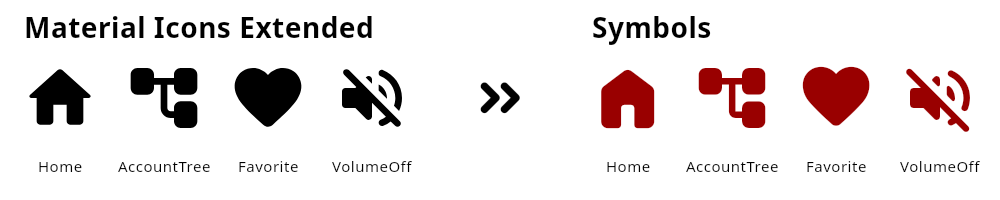
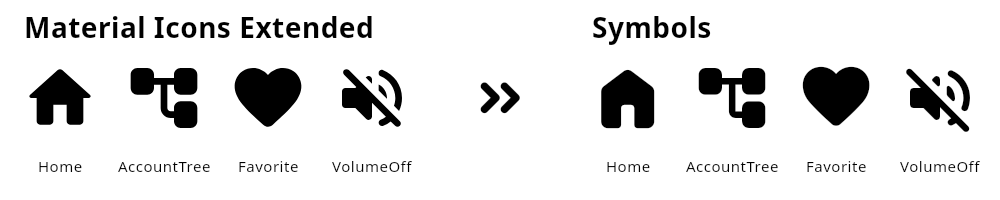
Cycle README Symbols through seeded Material primaries from black

Changed region(s): [[0.589, 0.33, 0.775, 0.66], [0.899, 0.33, 0.992, 0.66], [0.806, 0.33, 0.868, 0.63]]

diff --git a/tools/readme-media/src/main/kotlin/ReadmeMedia.kt b/tools/readme-media/src/main/kotlin/ReadmeMedia.kt
@@ -1,6 +1,7 @@
 @file:OptIn(androidx.compose.ui.ExperimentalComposeUiApi::class)
 
 import androidx.compose.animation.core.animateFloatAsState
+import androidx.compose.animation.animateColorAsState
 import androidx.compose.animation.core.Animatable
 import androidx.compose.animation.core.EaseInOutQuart
 import androidx.compose.animation.core.EaseOutQuart
@@ -18,6 +19,7 @@ import androidx.compose.material3.Icon
 import androidx.compose.material3.MaterialExpressiveTheme
 import androidx.compose.material3.MaterialTheme
 import androidx.compose.material3.Text
+import androidx.compose.material3.lightColorScheme
 import androidx.compose.runtime.Composable
 import androidx.compose.runtime.LaunchedEffect
 import androidx.compose.runtime.State
@@ -28,6 +30,7 @@ import androidx.compose.ui.Alignment
 import androidx.compose.ui.ImageComposeScene
 import androidx.compose.ui.Modifier
 import androidx.compose.ui.graphics.Color
+import androidx.compose.ui.graphics.toArgb
 import androidx.compose.ui.graphics.vector.ImageVector
 import androidx.compose.ui.text.font.FontWeight
 import androidx.compose.ui.unit.dp
@@ -37,6 +40,8 @@ import io.github.hlcaptain.symbols.font.SymbolFontIcon
 import io.github.hlcaptain.symbols.font.fontSettings
 import io.github.hlcaptain.symbols.material.*
 import io.github.hlcaptain.symbols.material.rounded.vectors.Home
+import com.materialkolor.hct.Hct
+import com.materialkolor.scheme.SchemeTonalSpot
 import java.io.File
 import javax.imageio.ImageIO
 import kotlinx.coroutines.Dispatchers
@@ -92,6 +97,21 @@ private val ComparisonStates = buildList {
         add(axes.copy(fill = fill))
     }
 }
+
+private fun primaryFromSeed(seed: Color): Color =
+    Color(SchemeTonalSpot(Hct.fromInt(seed.toArgb()), false, 0.0).primary)
+
+private val ComparisonTints = buildList {
+    val purple = lightColorScheme().primary
+    val purpleHue = Hct.fromInt(purple.toArgb()).hue
+    add(Color.Black)
+    add(purple)
+    for (index in 2 until ComparisonStates.lastIndex) {
+        val hue = (purpleHue + (index - 1) * 360.0 / (ComparisonStates.lastIndex - 1)) % 360.0
+        add(primaryFromSeed(Color(Hct.from(hue, 48.0, 50.0).toInt())))
+    }
+    add(Color.Black)
+}
 private val VariableStates = listOf(
     Axes(),
     Axes(fill = 1f, weight = 100f, grade = -50f, opticalSize = 20f),
@@ -113,14 +133,11 @@ private fun animatedAxes(target: Axes, finishedListener: ((Float) -> Unit)? = nu
 }
 
 @Composable
-private fun animatedTint(step: Float, finishedListener: ((Float) -> Unit)? = null): Color {
-    val animatedStep = animateFloatAsState(
-        step, MaterialTheme.motionScheme.defaultSpatialSpec<Float>(),
-        label = "Hue", finishedListener = finishedListener,
+private fun animatedTint(step: Float, finishedListener: ((Color) -> Unit)? = null): Color =
+    animateColorAsState(
+        ComparisonTints[step.toInt()], MaterialTheme.motionScheme.defaultEffectsSpec<Color>(),
+        label = "Tint", finishedListener = finishedListener,
     ).value
-    val hue = (animatedStep * 360f / ComparisonStates.lastIndex % 360f + 360f) % 360f
-    return Color.hsv(hue, 1f, 0.6f)
-}
 
 @Composable
 private fun animatedArrow(step: Float, finishedListener: (() -> Unit)? = null): Float {
@@ -252,9 +269,9 @@ private suspend fun capture(name: String, comparison: Boolean) {
     val states = if (comparison) ComparisonStates else VariableStates
     val initial = states.first()
     val target = mutableStateOf(initial)
-    val hueStep = mutableStateOf(0f)
+    val colorStep = mutableStateOf(0f)
     var animationFinished = true
-    var hueFinished = true
+    var tintFinished = true
     var arrowFinished = true
     if (comparison) {
         // One completion callback is sufficient only when exactly one axis changes.
@@ -268,8 +285,8 @@ private suspend fun capture(name: String, comparison: Boolean) {
             if (comparison) {
                 Comparison(
                     target.value,
-                    animatedTint(hueStep.value) { hueFinished = true },
-                    animatedArrow(hueStep.value) { arrowFinished = true },
+                    animatedTint(colorStep.value) { tintFinished = true },
+                    animatedArrow(colorStep.value) { arrowFinished = true },
                 ) {
                     animationFinished = true
                 }
@@ -279,13 +296,13 @@ private suspend fun capture(name: String, comparison: Boolean) {
     // Same released renderer and font size, with a roomier layout to reveal internal clipping.
     val reference = ImageComposeScene(Width, Height, coroutineContext = Dispatchers.Unconfined) {
         MaterialExpressiveTheme {
-            if (comparison) Comparison(target.value, animatedTint(hueStep.value), animatedArrow(hueStep.value), extraDrawingSpace = 20) {}
+            if (comparison) Comparison(target.value, animatedTint(colorStep.value), animatedArrow(colorStep.value), extraDrawingSpace = 20) {}
             else VariableFonts(target.value, extraDrawingSpace = 20)
         }
     }
     // Skia's font antialiasing depends on tint; verify settled geometry in its original black.
     val shapes = if (comparison) ImageComposeScene(Width, Height, coroutineContext = Dispatchers.Unconfined) {
-        MaterialExpressiveTheme { Comparison(target.value, Color.Black, animatedArrow(hueStep.value)) {} }
+        MaterialExpressiveTheme { Comparison(target.value, Color.Black, animatedArrow(colorStep.value)) {} }
     } else null
     var time = 0L
     var referencePng = byteArrayOf()
@@ -328,19 +345,19 @@ private suspend fun capture(name: String, comparison: Boolean) {
             }
             frameCount++
         }
-        val timeline = mutableListOf("frame,settledFrame,endFrame,fill,weight,grade,opticalSize")
+        val timeline = mutableListOf("frame,settledFrame,endFrame,fill,weight,grade,opticalSize,tintArgb")
         for ((index, axes) in states.withIndex()) {
             val startFrame = frameCount
             var settledFrame: Int? = null
             animationFinished = index == 0
-            hueFinished = index == 0
+            tintFinished = index == 0
             arrowFinished = index == 0
             Snapshot.withMutableSnapshot {
                 target.value = axes
-                hueStep.value = index.toFloat()
+                colorStep.value = index.toFloat()
             }
             if (comparison) {
-                while (!animationFinished || !hueFinished || !arrowFinished) {
+                while (!animationFinished || !tintFinished || !arrowFinished) {
                     check(frameCount - startFrame < 600) { "Animation did not finish: $axes" }
                     recordFrame()
                 }
@@ -351,7 +368,8 @@ private suspend fun capture(name: String, comparison: Boolean) {
             } else {
                 repeat(96) { recordFrame() }
             }
-            timeline += "$startFrame,${settledFrame ?: ""},$frameCount,${axes.fill},${axes.weight},${axes.grade},${axes.opticalSize}"
+            val targetTint = if (comparison) ComparisonTints[index] else Color.Black
+            timeline += "$startFrame,${settledFrame ?: ""},$frameCount,${axes.fill},${axes.weight},${axes.grade},${axes.opticalSize},${targetTint.toArgb().toUInt().toString(16)}"
         }
         File(output, "states.csv").writeText(timeline.joinToString("\n"))
         println("Captured $name: ${frameCount / 2} frames, ${frameCount / 60.0} seconds, 30 fps")
@@ -367,6 +385,9 @@ fun main() = runBlocking {
     // Compile-check the migration-first README call against the released vector artifact too.
     check(Icons.Rounded.Home.viewportWidth > 0)
     check(Examples.map { it.name } == listOf("Home", "AccountTree", "Favorite", "VolumeOff"))
+    check(ComparisonTints.size == ComparisonStates.size)
+    check(ComparisonTints.first() == Color.Black && ComparisonTints.last() == Color.Black)
+    check(ComparisonTints[1] == lightColorScheme().primary)
     capture("icons-comparison", comparison = true)
     capture("variable-fonts", comparison = false)
 }

diff --git a/tools/readme-media/encode.py b/tools/readme-media/encode.py
@@ -1,7 +1,6 @@
 #!/usr/bin/env python3
 """Verify Compose captures with Pillow and encode their unchanged frames with FFmpeg."""
 
-import colorsys
 import csv
 from pathlib import Path
 import shutil
@@ -95,6 +94,10 @@ def encode(name: str) -> None:
             (1, 400, 0, 24),
         ]
         assert len(states) == len(expected)
+        palette = [int(state["tintArgb"], 16) for state in states]
+        assert palette[0] == palette[-1] == 0xFF000000, "Color loop must begin and end at black"
+        assert palette[1] == 0xFF6750A4, "First transition must reach Material's default purple"
+        assert len(set(palette[2:-1])) == len(palette[2:-1]), "Seed-derived primaries must vary"
         previous_end = 0
         settled = []
         for index, (state, axes) in enumerate(zip(states, expected)):
@@ -108,7 +111,11 @@ def encode(name: str) -> None:
             assert all(ImageChops.difference(hold[0], frame).getbbox() is None for frame in hold), "Settled hold must keep its shape"
             colored_hold = frames[finish // 2:end // 2]
             assert all(ImageChops.difference(colored_hold[0], frame).getbbox() is None for frame in colored_hold), "Tint must stay fixed throughout the hold"
-            expected_color = tuple(round(channel * 255) for channel in colorsys.hsv_to_rgb(index / (len(expected) - 1), 1, 0.6))
+            expected_color = tuple((palette[index] >> shift) & 255 for shift in (16, 8, 0))
+            channels = [value / 255 for value in expected_color]
+            linear = [value / 12.92 if value <= 0.04045 else ((value + 0.055) / 1.055) ** 2.4 for value in channels]
+            luminance = sum(value * weight for value, weight in zip(linear, (0.2126, 0.7152, 0.0722)))
+            assert 1.05 / (luminance + 0.05) >= 3, "Material primary must remain legible on white"
             for crop in crops:
                 ink = min(colored_hold[0].crop(crop).get_flattened_data(), key=sum)
                 assert all(abs(actual - color) <= 1 for actual, color in zip(ink, expected_color)), f"Unexpected settled Symbols tint in state {index}: {ink} != {expected_color}"

diff --git a/tools/readme-media/README.md b/tools/readme-media/README.md
@@ -1,7 +1,7 @@
 # README media
 
 The README APNGs are real headless Compose renders, using the published Symbols
-2.1.0 artifacts. No icon outlines or spring curves are approximated. The capture
+2.1.0 artifacts and MaterialKolor color utilities 5.0.1. No icon outlines or spring curves are approximated. The capture
 uses the repository's Kotlin, Compose and Material3 versions from the catalog;
 it does not build the library's full generated vector packs or sample apps.
 
@@ -39,12 +39,17 @@ Labels use the legacy vector's `name.substringAfterLast('.')`, matching the
 rendered reference names.
 On the right, Symbols' live Rounded font animates fill, weight, optical size,
 and grade at the same requested icon size and tint. Only Symbols changes tint.
-Each axis transition advances the unwrapped hue
-by 15 degrees through the same expressive spatial motion scheme, using HSV
-saturation `1` and value `0.6`. Color and shape stop changing during the settled
-holds; text and the arrow stay black. This tint keeps every hue at least 3:1
-against white. The variable-font demo keeps its black glyphs. The comparison begins and ends at
-`FILL=1, wght=400, GRAD=0, opsz=24` and its initial red tint.
+The initial and final tint is black. The first transition reaches the stock
+Material light primary purple, `#6750A4`, from `lightColorScheme().primary`.
+Later targets use the light primary role from MaterialKolor `SchemeTonalSpot`
+for HCT seeds sweeping around the hue wheel at chroma 48 and tone 50. The
+`primaryFromSeed` function selects light mode and default contrast. MaterialKolor
+produces tone-40 primary colors; the source seeds are not used directly as tint.
+`animateColorAsState` uses the theme's `defaultEffectsSpec<Color>()` to blend
+between targets without overshoot. Color and shape stay fixed during the settled
+holds; text, arrows, and legacy icons stay black. The encoder checks at least
+3:1 primary-color contrast against white. The variable-font demo keeps its black glyphs. The comparison begins and ends at
+`FILL=1, wght=400, GRAD=0, opsz=24` and black tint.
 
 Starting filled at the default axes, the comparison runs these three segments
 in order. After each of the 12 axis steps, it toggles fill before advancing to
@@ -59,10 +64,10 @@ retain their values. The final fill toggle returns to `FILL=1` at the defaults.
 
 The 25 targets produce 24 transitions: 12 fill changes and four changes each
 to weight, optical size, and grade. The initial state holds for 1.5 seconds.
-Every transition waits for the axis spring, hue spring, and arrow motion to
-finish, then holds the complete settled frame for 1.5 seconds. The 24 color
-steps complete one rainbow cycle and return to the initial red. The comparison
-lasts 70.3 seconds: 2,109 exported frames at 30 fps.
+Every transition waits for the axis spring, tint animation, and arrow motion to
+finish, then holds the complete settled frame for 1.5 seconds. The 25 color
+targets are black, stock Material purple, 22 Tonal Spot primaries, and black.
+The comparison lasts 70.3 seconds: 2,109 exported frames at 30 fps.
 
 Both chevrons share one out-and-back `Animatable` track: 600 ms right with
 Compose `EaseInOutQuart`, then 700 ms back with `EaseOutQuart`. The right
@@ -73,13 +78,14 @@ The resting pair remains centered around (500, 98); connected ink checks ensure
 the chevrons stay distinct. Both stop before the 1.5-second settled hold.
 
 `states.csv` records each target's start (`frame`), completion-aligned hold
-start (`settledFrame`), and end (`endFrame`) as native 60 Hz frame indices.
+start (`settledFrame`), and end (`endFrame`) as native 60 Hz frame indices, plus the exact target `tintArgb` generated by Kotlin.
 The encoder verifies that all 25 holds span 90 native frames (1.5 seconds),
-the hue returns to red, and all 24 axis transitions are visible.
+the first/last colors are black, the first transition is Material purple, and
+all 24 axis transitions are visible.
 It checks pixel-static geometry during holds against additional black Compose
 captures, since Skia's font antialiasing changes with tint. The entire legacy
 half stays pixel-identical throughout. Checks require all four Symbols glyphs
-to reach the expected color, tint to animate during transitions, complete colored
+to reach the generated Material primary color, tint to animate during transitions, complete colored
 frames to stay pixel-static during holds, and the arrow to move only horizontally
 through one out-and-back nudge without overshoot or scaling. The encoder
 tracks the two separate ink components, requires 11 dp and 8 dp peak travel,
@@ -115,7 +121,7 @@ Only the two final APNGs and their still alternatives in `docs/media` are tracke
 The `.png` extension is intentional: APNG remains a standard PNG with a readable
 first frame. The variable-font demo remains eight seconds (240 exported frames).
 Each animation plays twice and ends on its initial state. The encoder verifies
-motion in every icon/axis, static legacy shapes, seamless color and shape loop
+motion in every icon/axis, static legacy shapes, seamless black color and shape loop
 endpoints, decoded duration and repeat count. Comparison checks cover segment order,
 single-axis transitions, spring completion, the arrow excursion, and the settled
 holds. Every decoded frame must match its native capture exactly. Frames and

diff --git a/README.md b/README.md
@@ -8,7 +8,7 @@ Shrinkable vectors and Android drawables that help keep APKs small.
 [![CI](https://github.com/HLCaptain/symbols/actions/workflows/ci.yml/badge.svg)](https://github.com/HLCaptain/symbols/actions/workflows/ci.yml)
 [![License](https://img.shields.io/badge/license-Apache--2.0-blue.svg)](LICENSE)
 
-![Home, AccountTree, Favorite, and VolumeOff compared side by side. Classic Material Icons Extended vectors keep their shapes on the left; the Rounded Material Symbols variable font is on the right. Material Icons Extended stays black. Symbols changes rainbow color during each transition and holds its color between transitions. Both columns start filled. Symbols varies weight, optical size, and grade, toggling fill after each axis step with a pause after every transition. Two bold single chevrons make a slow quartic nudge toward Symbols and return to rest during each transition, with synchronized timing and the left chevron moving slightly farther than the right. The sequence returns to filled icons at default weight, grade, optical size, and its initial color.](docs/media/icons-comparison.png)
+![Home, AccountTree, Favorite, and VolumeOff compared side by side. Classic Material Icons Extended vectors keep their shapes on the left; the Rounded Material Symbols variable font is on the right. Material Icons Extended stays black. Symbols starts black, transitions first to Material purple, then through seed-derived Tonal Spot primary colors, holding each color between transitions. Both columns start filled. Symbols varies weight, optical size, and grade, toggling fill after each axis step with a pause after every transition. Two bold single chevrons make a slow quartic nudge toward Symbols and return to rest during each transition, with synchronized timing and the left chevron moving slightly farther than the right. The sequence returns to filled icons at default weight, grade, optical size, and black.](docs/media/icons-comparison.png)
 
 Replace the deprecated `material-icons-extended` library while keeping Compose's standard `Icon`.
 Add a pack and use typed names—without per-icon downloads or hand-maintained
